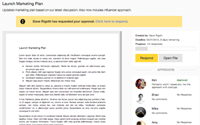
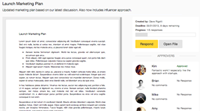
modal buttons

diff --git a/app/assets/stylesheets/edits.css b/app/assets/stylesheets/edits.css
@@ -29,7 +29,7 @@ body a:hover {
     font-weight: 500;
     opacity: .8;
 }
-.button.primary:hover, .button.secondary:hover {
+.button.primary:hover, .button.secondary:hover, .button.approve:hover, .button.decline:hover {
     opacity: 1;
 }
 .text-divider {
@@ -240,6 +240,24 @@ p {
 }
 .approval-details.approved {
     color: green;
+}
+.button.approve {
+    background-color: #1ae659;
+    border: 0px;
+    -moz-border-radius: 3px;
+    border-radius: 3px;
+    color: #000;
+    font-weight: 500;
+    opacity: .8;
+}
+.button.decline {
+    background-color: #e61a1a;
+    border: 0px;
+    -moz-border-radius: 3px;
+    border-radius: 3px;
+    color: #000;
+    font-weight: 500;
+    opacity: .8;
 }
 
 /* Approval Form */
